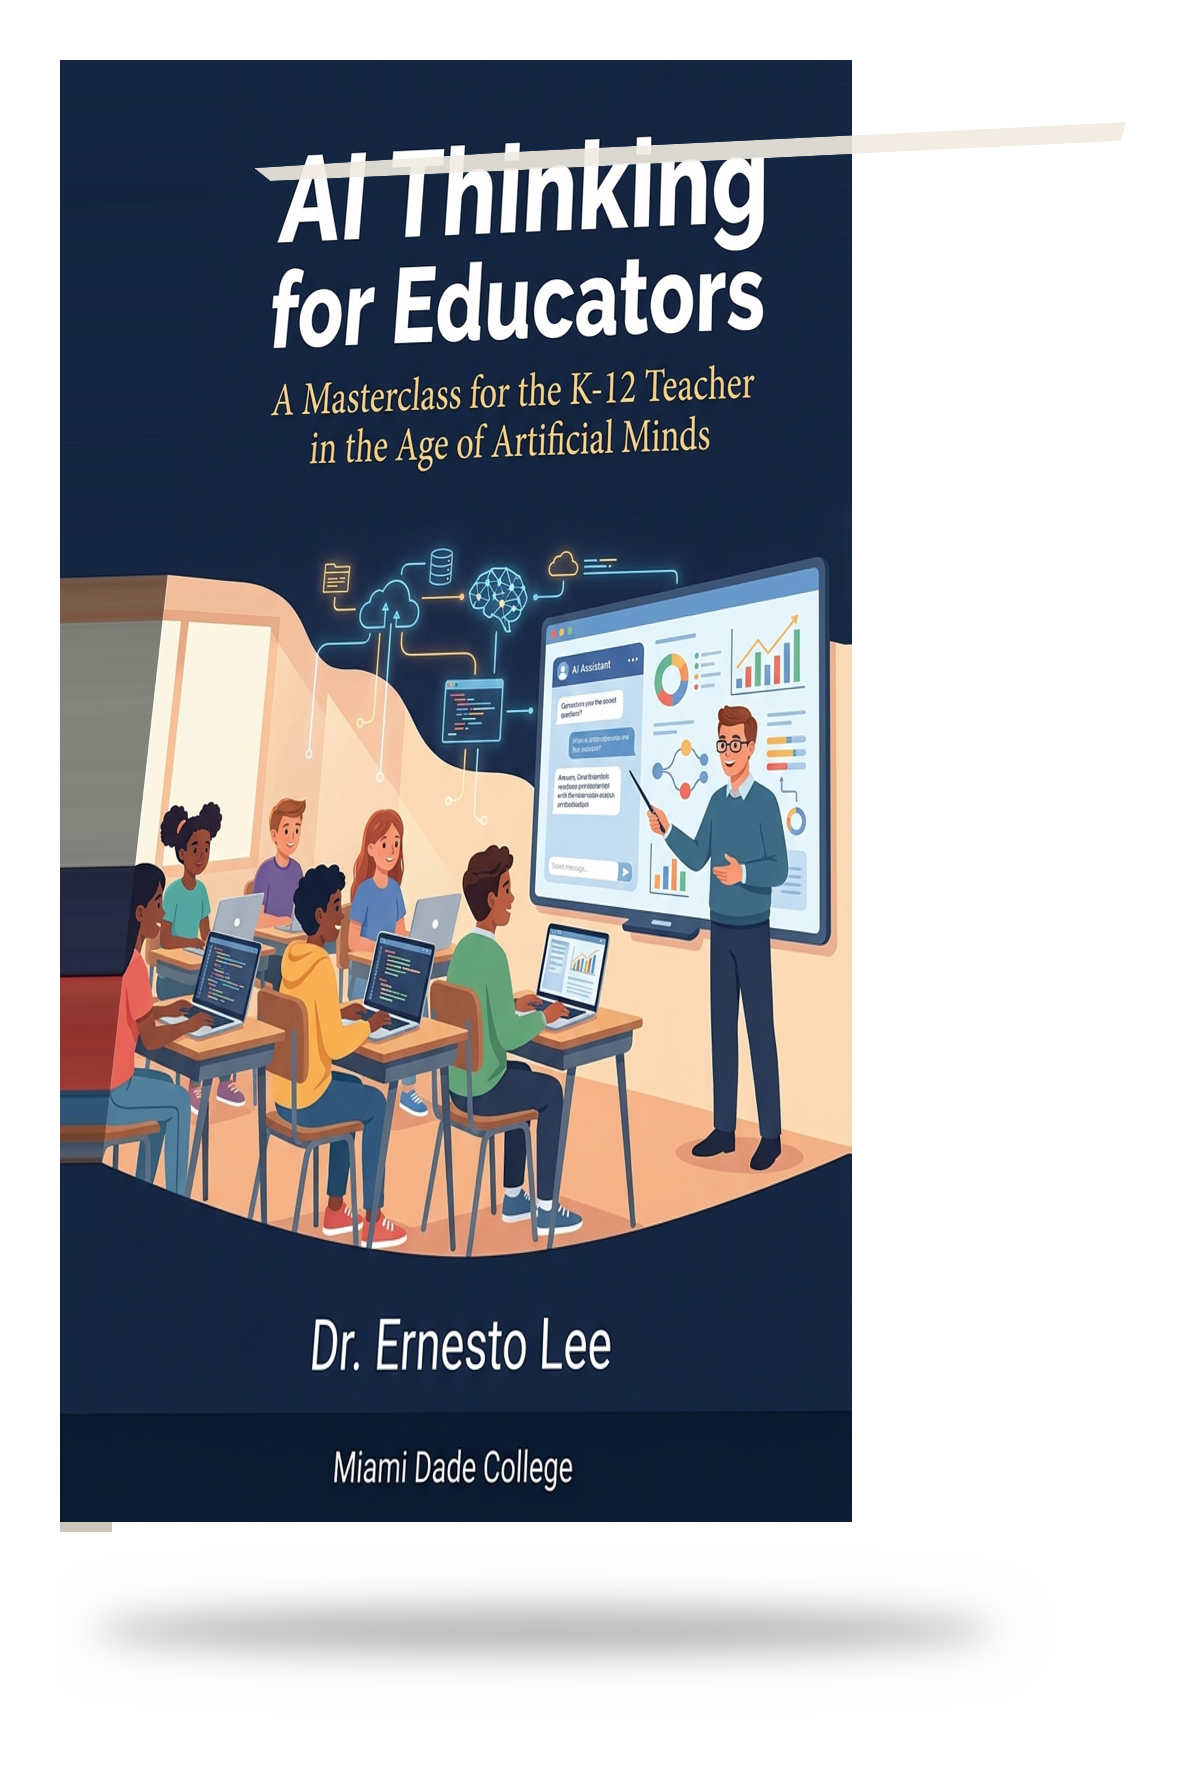
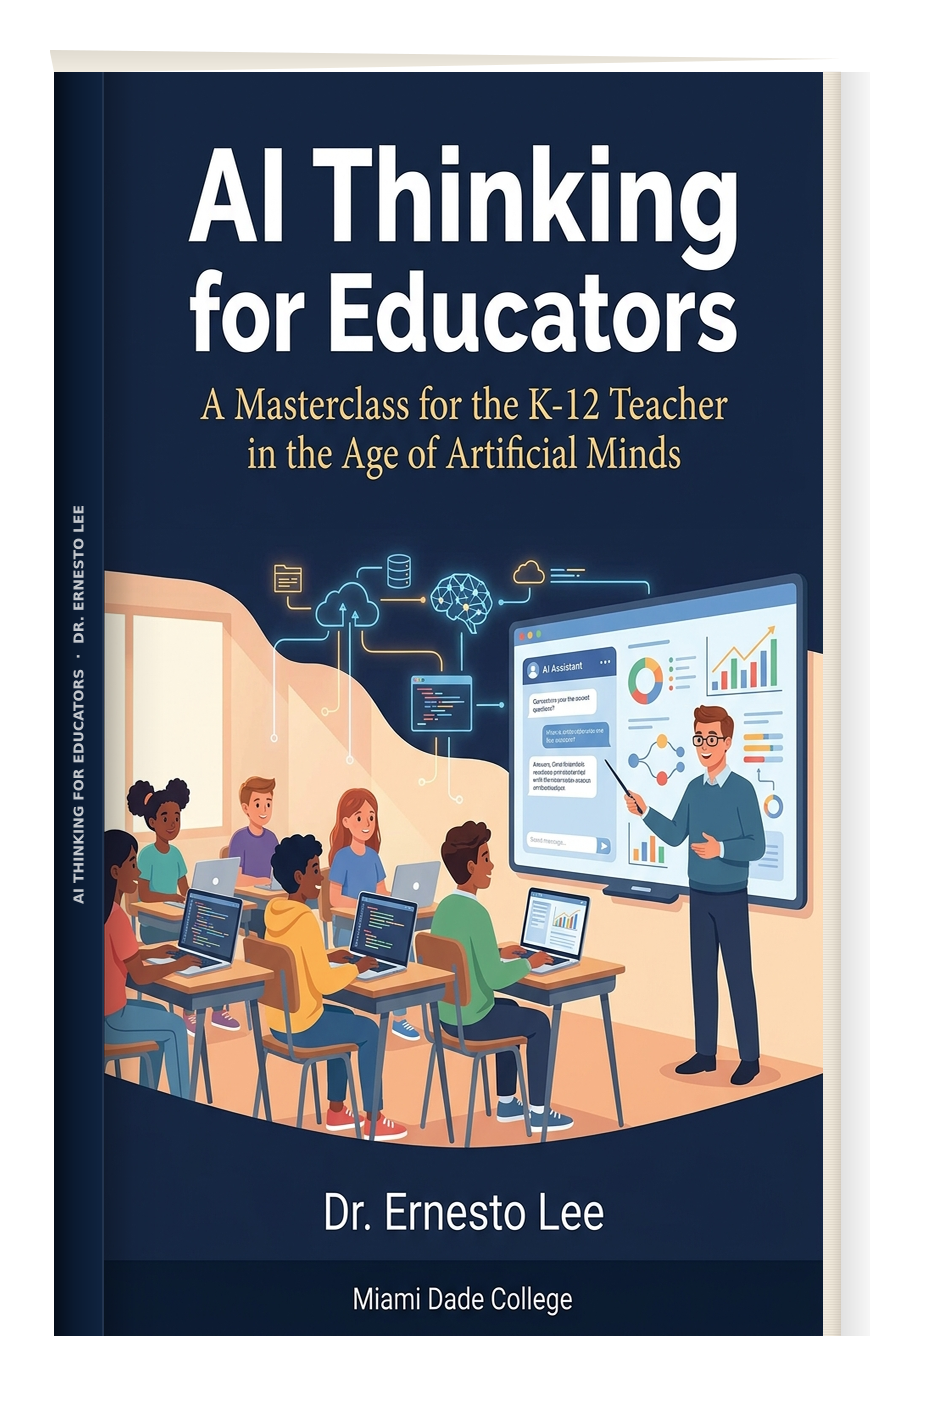
3D book cover — programmatic CSS-physics mockup (correct geometry)

diff --git a/scripts/make-cover-3d.js b/scripts/make-cover-3d.js
@@ -1,0 +1,176 @@
+#!/usr/bin/env node
+/**
+ * Physically correct 3D book cover using sharp compositing.
+ * 
+ * Physics: A hardcover book standing upright, rotated ~32 degrees from frontal.
+ * - Front face: rectangle compressed to cos(32°) ≈ 85% of original width (correct!)
+ * - Spine: rectangle showing at sin(32°) ≈ 53% of spine thickness, on the left
+ * - Page edges: thin cream strip on the right
+ * - Top edge: thin strip visible from slightly above
+ * - Drop shadow beneath
+ * 
+ * Since vertical edges of a standing book are truly vertical in 2-point perspective,
+ * the front face IS a rectangle — no perspective keystone. This is correct physics.
+ */
+
+const sharp = require('sharp');
+const { createCanvas, loadImage } = require('canvas');
+const fs = require('fs');
+const path = require('path');
+
+const BOOK_DIR  = '/home/node/openclaw/books/ai-thinking-educators';
+const FLAT_IN   = path.join(BOOK_DIR, 'images/cover-flat.png');
+const OUTPUT    = path.join(BOOK_DIR, 'images/cover.png');
+
+async function main() {
+  const meta = await sharp(FLAT_IN).metadata();
+  const srcW = meta.width;   // 848
+  const srcH = meta.height;  // 1264
+  console.log(`Source: ${srcW}x${srcH}`);
+
+  // ── Book geometry ───────────────────────────────────────────────
+  const ANGLE_DEG = 32;                              // rotation from frontal
+  const ANGLE_RAD = ANGLE_DEG * Math.PI / 180;
+  const SPINE_REAL_PX = 44;                          // book thickness in pixels
+
+  const coverW  = Math.round(srcW * Math.cos(ANGLE_RAD));  // 718
+  const coverH  = srcH;                                     // 1264
+  const spineW  = Math.round(SPINE_REAL_PX * Math.sin(ANGLE_RAD)); // 23px visible
+  const spineWDisplay = Math.max(spineW, 50);               // min 50px for visibility
+  const pageW   = 18;                                       // page edge strip width
+  const topH    = 22;                                       // top edge strip height
+
+  // Canvas dimensions
+  const PAD     = 80;
+  const CANVAS_W = coverW + spineWDisplay + pageW + PAD * 2;
+  const CANVAS_H = coverH + topH + PAD * 2 + 60; // 60 for shadow
+
+  console.log(`Book face: ${coverW}x${coverH}, spine: ${spineWDisplay}px`);
+  console.log(`Canvas: ${CANVAS_W}x${CANVAS_H}`);
+
+  // ── Resize flat cover to foreshortened width ────────────────────
+  const frontBuf = await sharp(FLAT_IN)
+    .resize(coverW, coverH, { fit: 'fill' })
+    .png()
+    .toBuffer();
+
+  // ── Build each face on canvas ───────────────────────────────────
+  const canvas = createCanvas(CANVAS_W, CANVAS_H);
+  const ctx = canvas.getContext('2d');
+
+  // White background
+  ctx.fillStyle = '#ffffff';
+  ctx.fillRect(0, 0, CANVAS_W, CANVAS_H);
+
+  // Positions
+  const spineX  = PAD;
+  const coverX  = PAD + spineWDisplay;
+  const pagesX  = coverX + coverW;
+  const bookTopY  = PAD + topH;
+  const bookBotY  = bookTopY + coverH;
+
+  // ── Ground shadow (ellipse under the book) ──────────────────────
+  const shadowCX = PAD + (spineWDisplay + coverW) / 2 + 10;
+  const shadowCY = bookBotY + 28;
+  const shadowGrad = ctx.createRadialGradient(shadowCX, shadowCY, 0, shadowCX, shadowCY, (coverW + spineWDisplay) * 0.55);
+  shadowGrad.addColorStop(0, 'rgba(0,0,0,0.30)');
+  shadowGrad.addColorStop(0.5, 'rgba(0,0,0,0.12)');
+  shadowGrad.addColorStop(1, 'rgba(0,0,0,0)');
+  ctx.save();
+  ctx.scale(1, 0.2);
+  ctx.beginPath();
+  ctx.arc(shadowCX, shadowCY * 5, (coverW + spineWDisplay) * 0.55, 0, Math.PI * 2);
+  ctx.fillStyle = shadowGrad;
+  ctx.fill();
+  ctx.restore();
+
+  // ── Spine face ──────────────────────────────────────────────────
+  // Dark navy, left edge darker (facing away from light source on right)
+  const spineGrad = ctx.createLinearGradient(spineX, 0, spineX + spineWDisplay, 0);
+  spineGrad.addColorStop(0,   '#050d1a');
+  spineGrad.addColorStop(0.4, '#0a1a30');
+  spineGrad.addColorStop(1,   '#102440');
+  ctx.fillStyle = spineGrad;
+  ctx.fillRect(spineX, bookTopY, spineWDisplay, coverH);
+
+  // Spine-front seam highlight (thin bright line)
+  ctx.fillStyle = 'rgba(255,255,255,0.08)';
+  ctx.fillRect(spineX + spineWDisplay - 2, bookTopY, 2, coverH);
+
+  // Spine title (rotated text)
+  ctx.save();
+  ctx.translate(spineX + spineWDisplay / 2, bookTopY + coverH / 2);
+  ctx.rotate(-Math.PI / 2);
+  ctx.fillStyle = 'rgba(255,255,255,0.75)';
+  ctx.font = `bold ${Math.max(10, Math.floor(spineWDisplay * 0.28))}px Arial, sans-serif`;
+  ctx.textAlign = 'center';
+  ctx.textBaseline = 'middle';
+  ctx.fillText('AI THINKING FOR EDUCATORS  ·  DR. ERNESTO LEE', 0, 0);
+  ctx.restore();
+
+  // ── Top edge (page block seen from slightly above) ───────────────
+  // Slight trapezoid: spine side slightly narrower (correct perspective)
+  ctx.save();
+  ctx.beginPath();
+  ctx.moveTo(spineX,                bookTopY);                    // top-left of spine
+  ctx.lineTo(spineX + spineWDisplay, bookTopY);                   // top of cover
+  ctx.lineTo(pagesX + pageW,        bookTopY - topH * 0.6);       // top-right of pages
+  ctx.lineTo(spineX - topH * 0.2,   bookTopY - topH);             // back-left corner
+  ctx.closePath();
+  const topGrad = ctx.createLinearGradient(0, bookTopY - topH, 0, bookTopY);
+  topGrad.addColorStop(0, '#e0dbd0');
+  topGrad.addColorStop(1, '#f0ebe0');
+  ctx.fillStyle = topGrad;
+  ctx.fill();
+  ctx.restore();
+
+  // ── Front cover ──────────────────────────────────────────────────
+  const frontImg = await loadImage(frontBuf);
+  ctx.drawImage(frontImg, coverX, bookTopY, coverW, coverH);
+
+  // Left-edge shadow on front cover (seam between spine and front)
+  const frontShadowGrad = ctx.createLinearGradient(coverX, 0, coverX + 60, 0);
+  frontShadowGrad.addColorStop(0,    'rgba(0,0,0,0.28)');
+  frontShadowGrad.addColorStop(0.5,  'rgba(0,0,0,0.05)');
+  frontShadowGrad.addColorStop(1,    'rgba(0,0,0,0)');
+  ctx.fillStyle = frontShadowGrad;
+  ctx.fillRect(coverX, bookTopY, 80, coverH);
+
+  // ── Page edges (right side) ──────────────────────────────────────
+  const pagesGrad = ctx.createLinearGradient(pagesX, 0, pagesX + pageW, 0);
+  pagesGrad.addColorStop(0,   '#f2ece0');
+  pagesGrad.addColorStop(0.5, '#ede6d8');
+  pagesGrad.addColorStop(1,   '#d8d0c4');
+  ctx.fillStyle = pagesGrad;
+  ctx.fillRect(pagesX, bookTopY, pageW, coverH);
+
+  // Horizontal page lines
+  ctx.strokeStyle = 'rgba(180,172,158,0.35)';
+  ctx.lineWidth = 0.6;
+  for (let y = bookTopY; y < bookBotY; y += 2.5) {
+    ctx.beginPath();
+    ctx.moveTo(pagesX, y);
+    ctx.lineTo(pagesX + pageW, y);
+    ctx.stroke();
+  }
+
+  // ── Overall book drop shadow (right side, simulate 3D depth) ────
+  const rightShadow = ctx.createLinearGradient(pagesX + pageW, 0, pagesX + pageW + 40, 0);
+  rightShadow.addColorStop(0, 'rgba(0,0,0,0.12)');
+  rightShadow.addColorStop(1, 'rgba(0,0,0,0)');
+  ctx.fillStyle = rightShadow;
+  ctx.fillRect(pagesX + pageW, bookTopY, 40, coverH);
+
+  // ── Save + trim ──────────────────────────────────────────────────
+  const buf = canvas.toBuffer('image/png');
+  await sharp(buf)
+    .trim({ background: '#ffffff', threshold: 8 })
+    .extend({ top: 50, bottom: 70, left: 50, right: 60, background: '#ffffff' })
+    .png({ compressionLevel: 8 })
+    .toFile(OUTPUT);
+
+  const size = fs.statSync(OUTPUT).size;
+  console.log(JSON.stringify({ success: true, path: OUTPUT, size, coverW, coverH, spineW: spineWDisplay }));
+}
+
+main().catch(e => { console.error(e.message); process.exit(1); });
